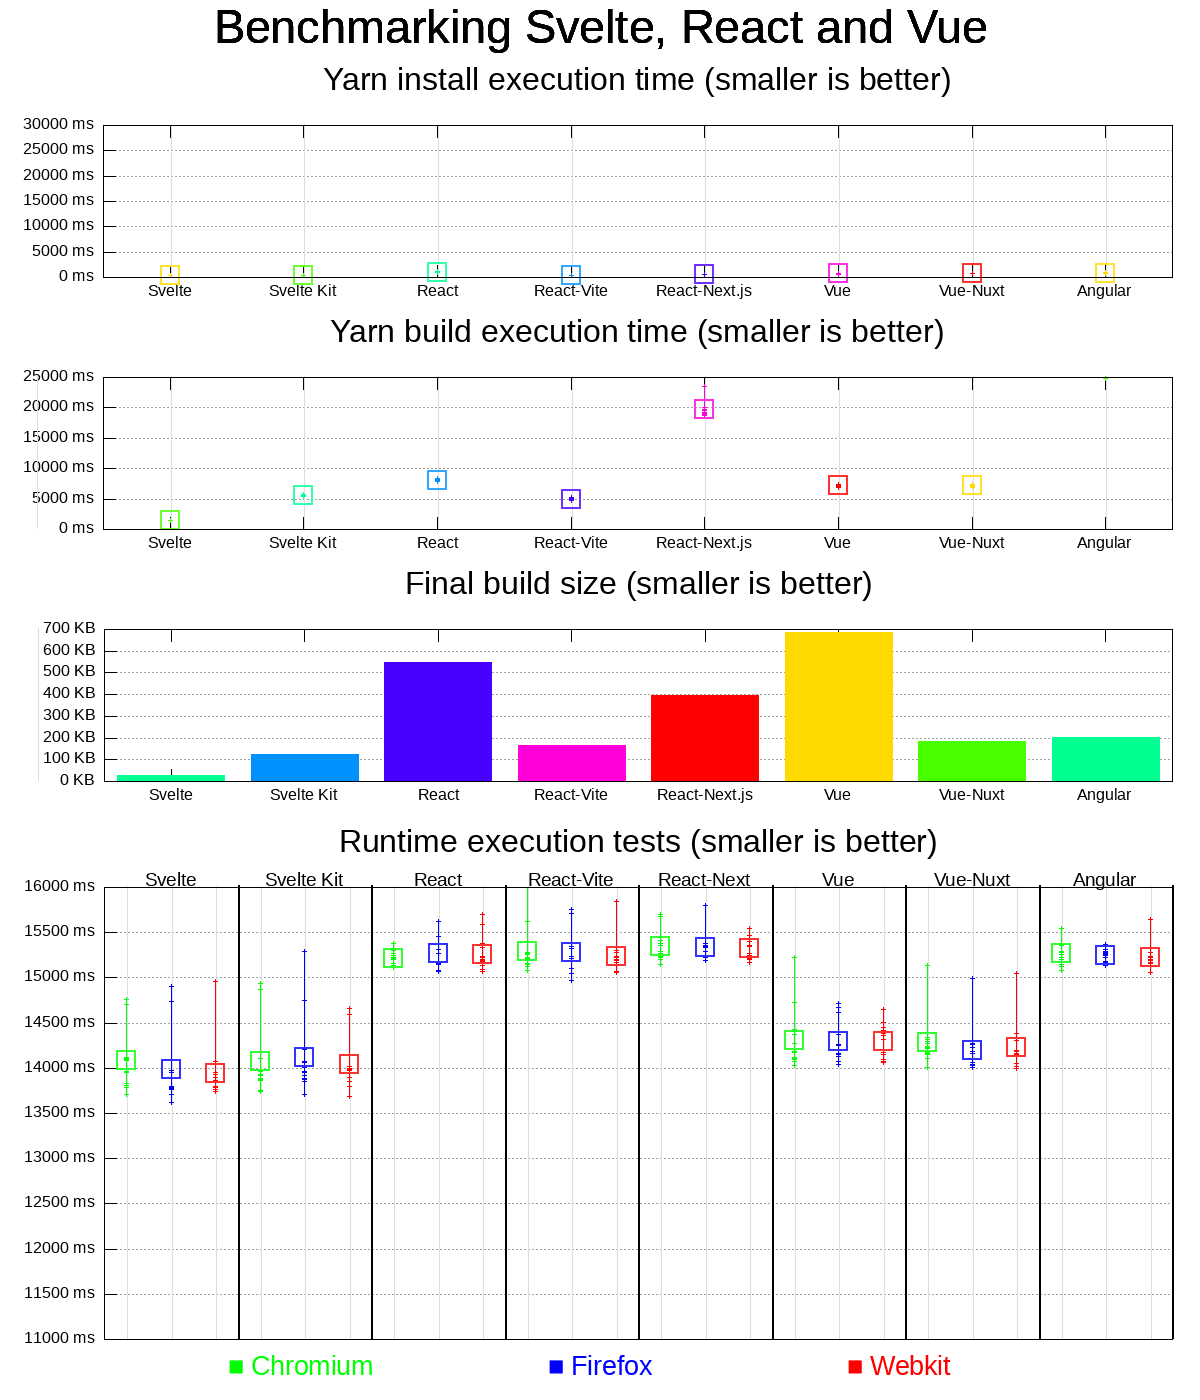
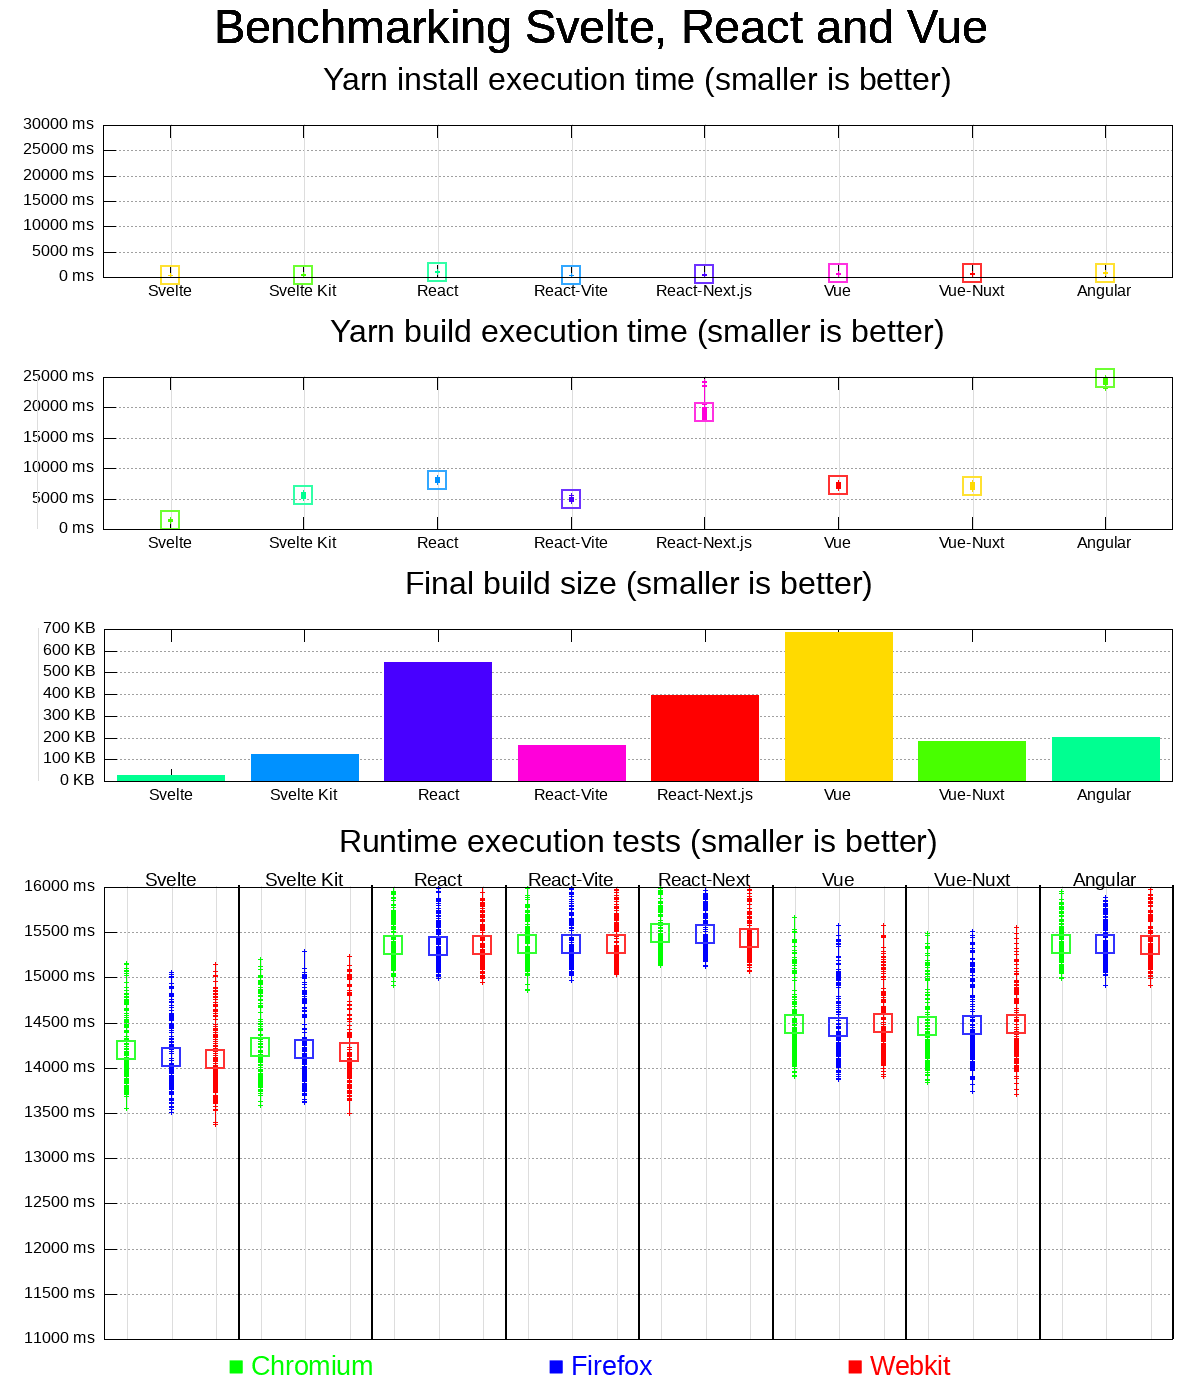
Add vps data

diff --git a/README.md b/README.md
@@ -30,8 +30,8 @@ Pictured results:
 | Server                       | A                      | B                     |
 |------------------------------|------------------------|-----------------------|
 | Results                      | ![](./output/dedi.png) | ![](./output/vps.png) |
-| Number of build benchmarks   | 172 | 13 |
-| Number of runtime benchmarks | 172 | 13 |
+| Number of build benchmarks   | 172 | 174 |
+| Number of runtime benchmarks | 172 | 174 |
 
 ## How to reproduce
 
